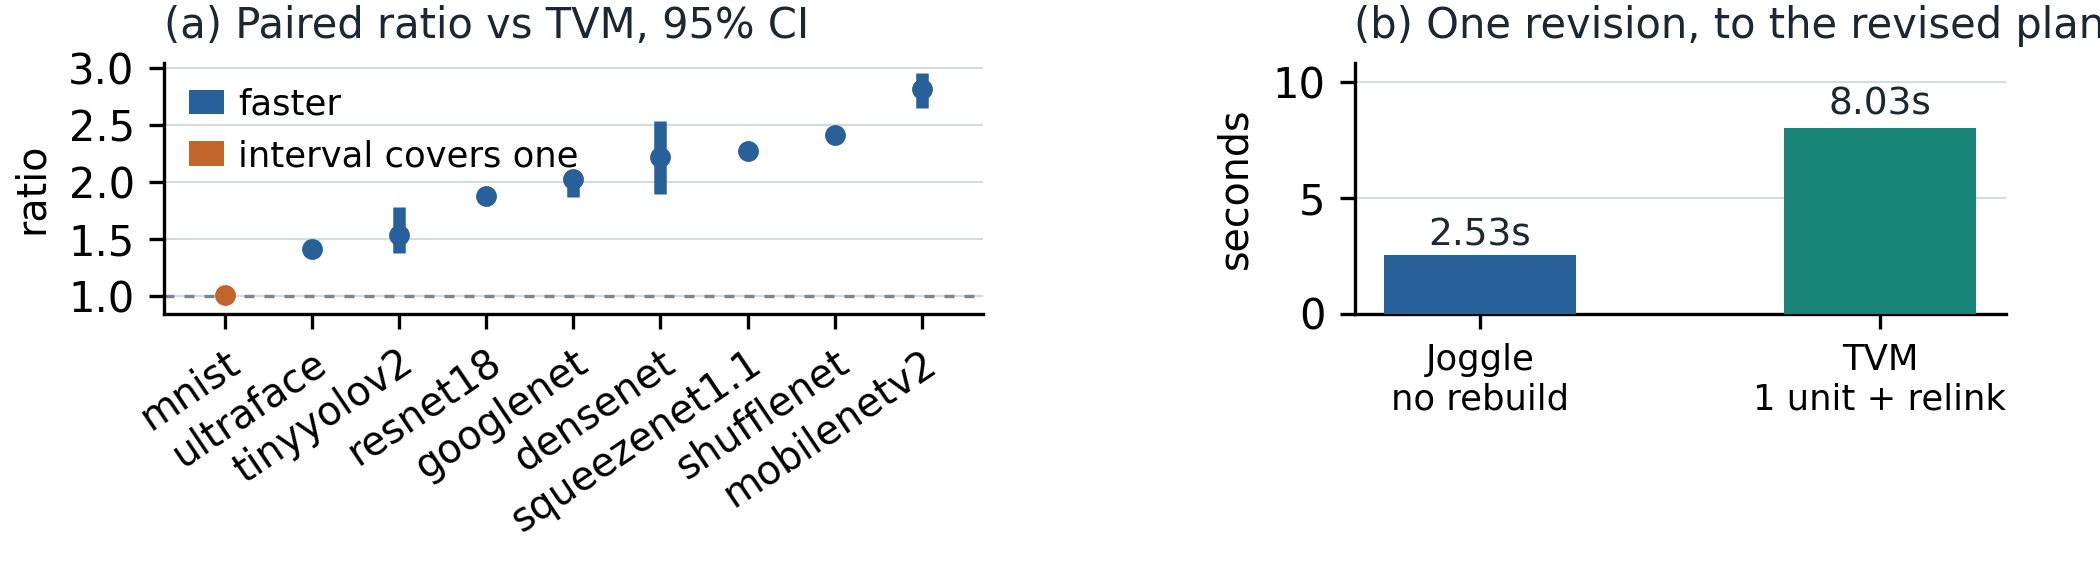
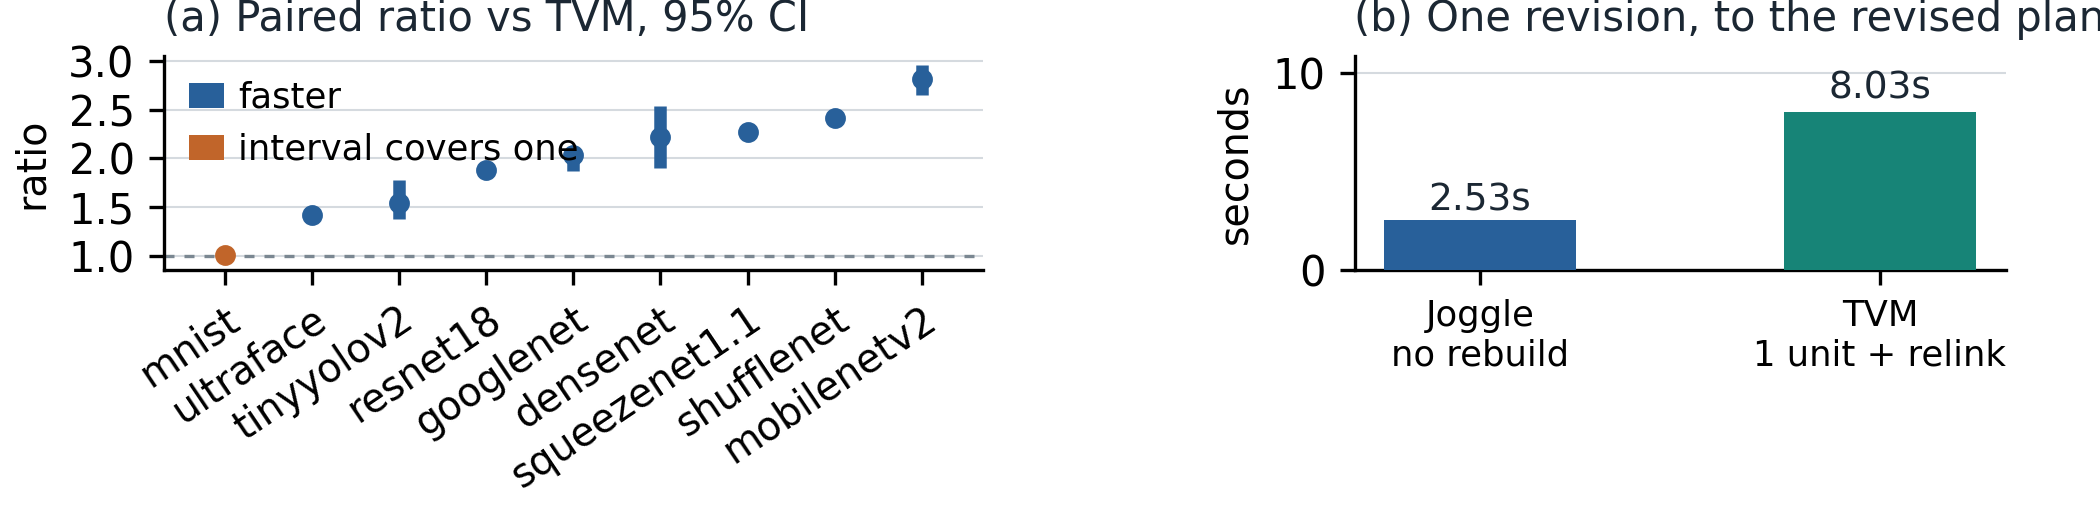
Reconcile the paper with the newer records
An audit of main.tex against paper/data found that the paper was mixing two
generations of records: the coverage CSV and one block of unmeasured-models.json
still carry the state from before the QDQ probe, while the probe, the
re-validation and the assessment blocks carry the state after it. Nine statements
needed to move.

The INT8 diagnosis was stale in every clause. It now reports 4.34e-3 over 123
elements, and attributes the residual correctly: ninety-two standard quantised
operators now accumulate in int32 as specified and doing so moved the error only
from 4.46e-3, so the remainder lies in twenty-five instances of two
runtime-private contrib operators whose documented formula is a float expression
the runtime evaluates with fixed-point kernels. The sentence claiming both
variants miss the reference is gone, and the QDQ result is now stated at all --
1,139 ms to 350 ms, 3.25x -- with the fact that it was measured in its own job
rather than the campaign's. That is the study's strongest campaign result and it
had been invisible.

Two counts followed: twelve models have executed artifacts, not eleven, and four
never reached one, not five, since QDQ now does.

The reference sentence was overstated. Disabling ONNX Runtime's graph
optimisation changes the reference every verdict is measured against, but the
timed ONNX Runtime column was measured the day before that correction and was not
re-run, so the text now says what is true of the reference and states that the
[…]

diff --git a/paper/submission/main.tex b/paper/submission/main.tex
@@ -27,9 +27,9 @@ the resulting copy executed on a separate subject while the original remains
 callable and verified. The compiler validates each revision and can roll it back,
 so a derived procedure remains reproducible. A structurally addressed derivation also
 reproduces the validated plan where a textual patch cannot be applied at all, so
-a user or an agent can propose revisions with the same tools. Across widely used models, one source-defined locality policy
+a user can propose revisions with the same tools. Across widely used models, one source-defined locality policy
 reduces the run time of generated code on each of them, by $1.44\times$ to
-$3.24\times$. It requires no compiler rebuild and matches or beats TVM's
+$3.22\times$. It requires no compiler rebuild and matches or beats TVM's
 unscheduled C target wherever that lowering could be built and validated.
 % [claim:C-locality,C-derive-storage,C-derive-control,C-derive-external,C-derive-boundary,C-derive-composition] [evidence:E-locality,E-reuse-result,E-reuse-control,E-reuse-external,E-reuse-check,E-reuse-path] Author verification pending.
 \end{abstract}
@@ -690,8 +690,8 @@ slot capacity rather than memory in use.
 
 That proxy is the change's only artifact-level consequence. Extending the same
 derived planner to four further models shows what it carries: all five validate
-under both planners, the emitted C differs on one model by 20 bytes and is
-identical on the others, and peak RSS moves by at most two percent either way,
+under both planners, the emitted C differs on one model by 20 bytes and has the
+same size on the others, and peak RSS moves by at most two percent either way,
 which is noise. A capacity-ordered ranking recovers what a competent planner
 already does, so the 4.49\% measures this prototype's first-fit baseline and the
 decision is worth what it costs to express and check, not what it saves.
@@ -734,8 +734,8 @@ nothing: deriving the recipe costs 0.04\,s and the derived planner 2.48\,s. The
 TVM route pays a translation unit and a relink per edit, 8.0\,s and 7.7\,s on
 revert, after a 514\,s clean build, and then plans natively far faster than
 Joggle's interpreted planner. Both artifacts pass the same oracle, but the rule
-lowers Joggle's first-fit plan and raises TVM's capacity-aware one, so the two
-storage figures are not comparable and the rule is not a contribution.
+lowers Joggle's plan and raises TVM's, so the two storage figures are not
+comparable and the rule is not a contribution.
 The control covers one model and one host and measures a rebuild and
 feedback boundary, not developer effort or maintenance over upstream changes.
 ONNX-MLIR at \texttt{4a13c34} has the same route shape by source inspection:
@@ -816,20 +816,23 @@ TFLite model. All sixteen decode and convert, and the fifteen ONNX models also
 infer, since the TFLite frontend has no separate inference stage: at revision
 \texttt{27b37c75} every ONNX case reaches a zero unknown-result frontier with no
 source-format call left, including the three that earlier stopped at 280, 6790,
-and 1333 unknown results. Eleven also have executed artifacts that pass a stored
+and 1333 unknown results. Twelve also have executed artifacts that pass a stored
 reference, and the TFLite model agrees with LiteRT to $1.0\times10^{-6}$.
 
 Reach is not execution, and the models without timing fail for different
 reasons. TinyYOLOv3 declares its input extents with no dimension parameter and
-computes its own extents at run time from a second input tensor, so declaring a
-shape still leaves seventy-three tensors dynamic and preparation stops on a
-stride computation. SSD-MobileNetV1 converts and is then declined by
+computes them at run time from a second input tensor, so declaring a shape still
+leaves seventy-three tensors dynamic and preparation stops on a stride
+computation. SSD-MobileNetV1 converts and is then declined by
 static-control folding, whose two arms carry tensor types of different rank. The
 EfficientNet-Lite4 INT8 variant builds, runs, and misses the stored reference by
-$4.46\times10^{-3}$ over 130 elements, both variants reporting the same error, so
-the gap is in the shared quantised path rather than the policy; the QDQ form
-measures. XCiT-Tiny exceeds its preparation timeout, a cost rather than a
-rejection, and TFLite MobileNetV2 was timed against LiteRT by its own frontend
+$4.34\times10^{-3}$ over 123 elements. Its ninety-two standard quantised operators
+now accumulate in int32 as specified, which moved that error only from
+$4.46\times10^{-3}$, so the residual lies in twenty-five instances of two
+runtime-private contrib operators, whose documented formula is a float expression
+the runtime evaluates with fixed-point kernels. The QDQ form validates, and runs
+$1{,}139$\,ms to $350$\,ms under the same policy, $3.25\times$, in its own job. XCiT-Tiny exceeds its preparation timeout, a cost rather
+than a rejection, and TFLite MobileNetV2 was timed against LiteRT by its own
 study. No timing is reported for a model that does not validate.
 
 The in-memory MobileNetV2 trace tests a different property: selection leaves
@@ -848,12 +851,11 @@ show that the first is addressable from source.
 
 % [claim:C-same-host,C-locality] [evidence:E-same-host,E-locality]
 A same-host comparison separates Joggle-specific cost from the cost shared by
-unscheduled compiler output, and then asks whether a source-defined policy can
-move it. One job measured every system on every model it could be built and
-validated for, with one thread, all Joggle and TVM C artifacts compiled at \texttt{-O2} while
-the ONNX-MLIR column keeps its \texttt{-O3} route, and 20 balanced fresh
-processes per system; Figure~\ref{fig:runtime} reports those
-medians. Where both were measured, Joggle's first-fit artifact is 0.84$\times$ to
+unscheduled compiler output, and then asks whether a policy can move it. One job
+measured every system on every model it could be built and validated for, one
+thread, 20 balanced fresh processes per system, Joggle and TVM artifacts at
+\texttt{-O2} while the ONNX-MLIR column keeps \texttt{-O3};
+Figure~\ref{fig:runtime} reports those medians. Where both were measured, Joggle's first-fit artifact is 0.84$\times$ to
 0.99$\times$ of TVM's default C-target lowering on six models and 2.7\% and
 14\% slower on ShuffleNetV2 and GoogLeNet, so the two scalar emitters are
 broadly comparable; the exception is MNIST, where TVM is 3.0$\times$ faster.
@@ -894,10 +896,12 @@ one. Against TVM's unscheduled
 lowering, measured on nine models, the same policy is faster on eight, by
 $1.41\times$ to $2.82\times$ with intervals excluding one; MNIST is a tie at
 $1.01\times$, interval $[0.94, 1.06]$. Every artifact is admitted only if it stays inside
-the study's $10^{-4}$ tolerance of its stored reference, the largest observed
-error being $2.00\times10^{-5}$. The variants differ only in the policy, so this
-measures the reach of one source-defined rule rather than per-model tuning, and
-Figure~\ref{fig:runtime} shows every model rather than a summary over the set.
+the study's $10^{-4}$ tolerance of a reference ONNX Runtime produces with graph
+optimisation disabled, so the reference is the graph as written rather than an
+integer kernel fused from it, the largest error observed being $2.00\times10^{-5}$
+on TinyYOLOv2 under ONNX-MLIR. The timed ONNX Runtime column predates that
+correction and was not re-run. The variants differ only in the policy, so this
+measures the reach of one source-defined rule rather than per-model tuning.
 
 \begin{figure*}[t]
 \centering
@@ -907,7 +911,7 @@ Figure~\ref{fig:runtime} shows every model rather than a summary over the set.
 \caption{Top: every system measured on each pinned model, normalized to that
 model's own Joggle first-fit artifact, over 20 fresh processes on one host at one
 thread. A group is a model and its bars are the systems run on it, so a group is
-empty where a system was not run; ten models carry the campaign and five never
+empty where a system was not run; ten models carry the campaign and four never
 reached an executed artifact. Bottom: (a) the same policy against TVM's
 unscheduled lowering per model, as a median of paired ratios with a percentile
 bootstrap interval over 20 trials, where the interval for MNIST covers one and
@@ -954,14 +958,13 @@ value-representation cost, addressable by interned types, shared attributes,
 and arena-allocated frames without changing the function model.
 
 XCiT's preparation exceeds its recorded timeout, and selective exposure bounds
-what a consumer requests rather than the cost of reaching it on a large
-transformer. Compilation time is now measured on one span: the pinned ONNX file
-on disk to a loadable library, one host, one thread, one artifact per system,
-with the fixture all three share staged outside the span. Joggle takes 101.5\,s
+what a consumer requests rather than the cost of reaching it. Compilation time is
+measured on one span: the pinned ONNX file on disk to a loadable library, one
+host, one thread, one artifact per system, the shared fixture staged outside the
+span. Joggle takes 101.5\,s
 against 4.52\,s for TVM and 4.51\,s for ONNX-MLIR over five runs each, so its
 compile time is 22.5$\times$ theirs here. The cost sits where the design
-predicts, since the prototype's compiler is interpreted. Peak resident memory for a
-complete model remains unmeasured. Failure tests cover
+predicts, since the prototype's compiler is interpreted. Peak compilation memory remains unmeasured. Failure tests cover
 transactions and stale handles; generative tests cover parsing and legal IR
 edits, not module loading, serialized frontends, or the native ABI.
 

diff --git a/paper/scripts/render_evidence.py b/paper/scripts/render_evidence.py
@@ -50,9 +50,9 @@ def compile_series():
 def main():
     plt.rcParams.update({"font.family": "DejaVu Sans", "font.size": SIZE,
                          "pdf.fonttype": 42, "figure.dpi": 150})
-    fig = plt.figure(figsize=(7.0, 1.90))
-    left = fig.add_axes([.078, .450, .390, .440])
-    right = fig.add_axes([.645, .450, .310, .440])
+    fig = plt.figure(figsize=(7.0, 1.70))
+    left = fig.add_axes([.078, .470, .390, .420])
+    right = fig.add_axes([.645, .470, .310, .420])
 
     # (a) paired ratio against TVM, vertical intervals.
     rows = paired_rows()

diff --git a/paper/scripts/render_runtime.py b/paper/scripts/render_runtime.py
@@ -108,8 +108,8 @@ def main():
     order.sort(key=lambda m: runs[m]["locality"]["median"])
     order += [m for m in pinned() if m not in runs]
 
-    fig = plt.figure(figsize=(7, 2.80))
-    ax = fig.add_axes([.062, .445, .870, .410])
+    fig = plt.figure(figsize=(7, 2.45))
+    ax = fig.add_axes([.062, .455, .870, .400])
 
     for index, model in enumerate(order):
         variants = runs.get(model)
